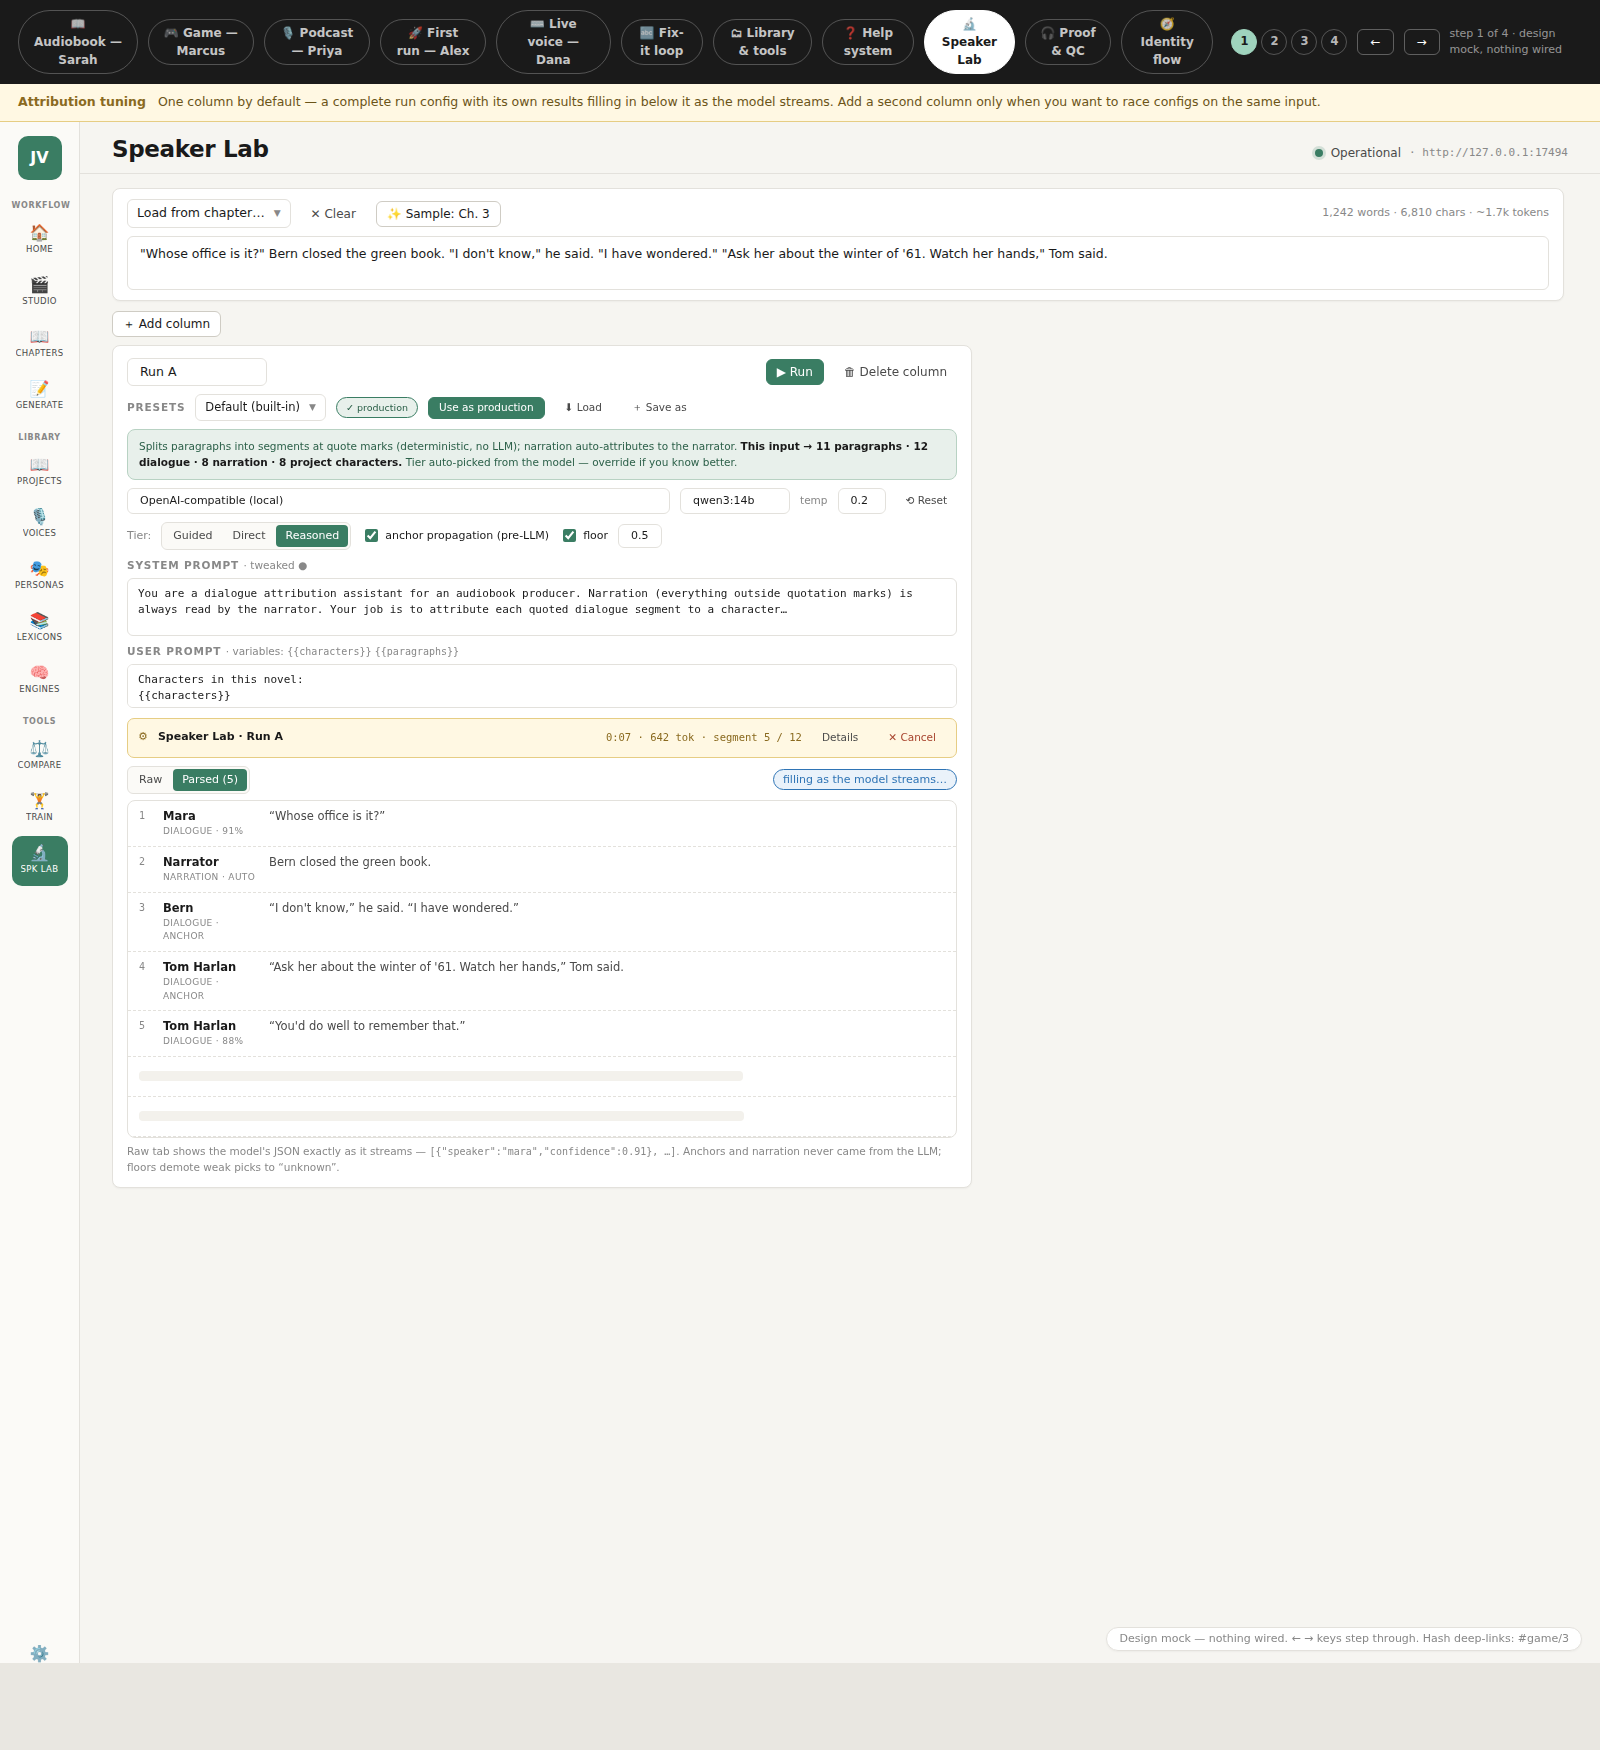
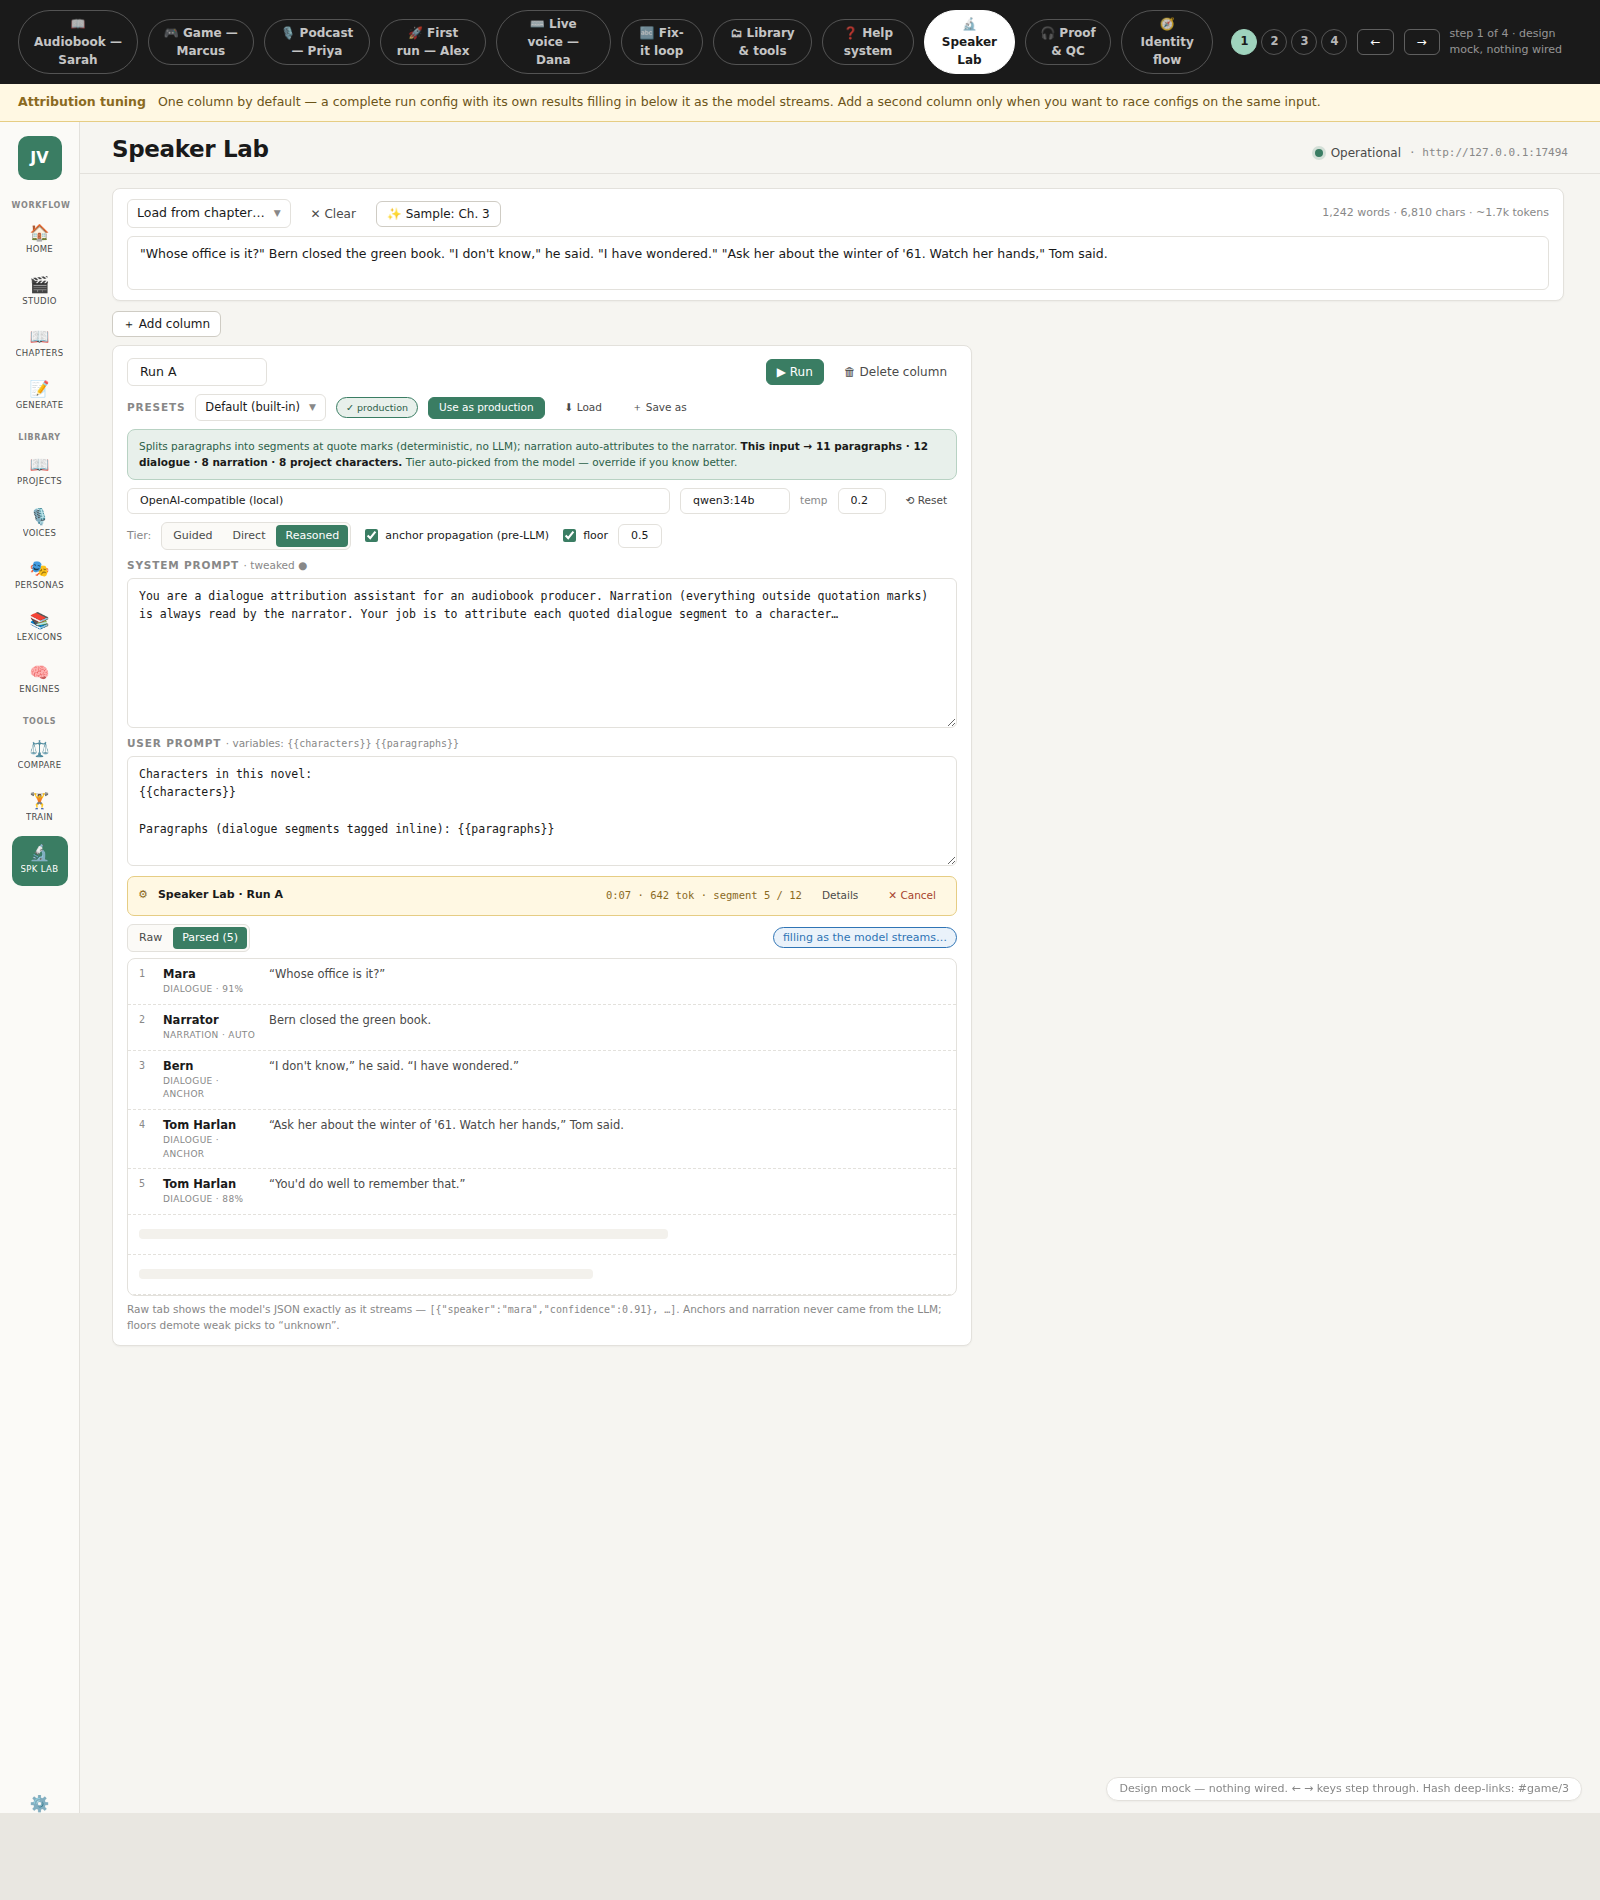
fix(design): Speaker Lab — taller prompt textareas (150px/110px, vertical resize, larger line-height)
https://claude.ai/code/session_01RnHLzYNeJn2GgAMKW1BPmR

diff --git a/preview/journeys-preview.html b/preview/journeys-preview.html
@@ -1306,9 +1306,9 @@ const stepsSplab = [
           <label style="font-size:11px;display:inline-flex;gap:4px;align-items:center"><input type="checkbox" checked style="accent-color:var(--accent)"/>anchor propagation (pre-LLM)</label>
           <label style="font-size:11px;display:inline-flex;gap:4px;align-items:center"><input type="checkbox" checked style="accent-color:var(--accent)"/>floor</label><input class="input" style="height:24px;font-size:11px;max-width:44px" value="0.5"/></div>
         <div class="eyebrow" style="margin-bottom:4px">System prompt <span style="font-weight:400;text-transform:none;letter-spacing:0">· tweaked ●</span></div>
-        <textarea class="input" style="height:58px;padding:7px 10px;resize:none;font-size:11px;font-family:var(--font-mono);margin-bottom:8px">You are a dialogue attribution assistant for an audiobook producer. Narration (everything outside quotation marks) is always read by the narrator. Your job is to attribute each quoted dialogue segment to a character…</textarea>
+        <textarea class="input" style="height:150px;padding:8px 11px;resize:vertical;font-size:11.5px;line-height:1.6;font-family:var(--font-mono);margin-bottom:8px">You are a dialogue attribution assistant for an audiobook producer. Narration (everything outside quotation marks) is always read by the narrator. Your job is to attribute each quoted dialogue segment to a character…</textarea>
         <div class="eyebrow" style="margin-bottom:4px">User prompt <span style="font-weight:400;text-transform:none;letter-spacing:0">· variables: <span class="mono" style="font-size:10px">{{characters}}</span> <span class="mono" style="font-size:10px">{{paragraphs}}</span></span></div>
-        <textarea class="input" style="height:44px;padding:7px 10px;resize:none;font-size:11px;font-family:var(--font-mono);margin-bottom:10px">Characters in this novel:
+        <textarea class="input" style="height:110px;padding:8px 11px;resize:vertical;font-size:11.5px;line-height:1.6;font-family:var(--font-mono);margin-bottom:10px">Characters in this novel:
 {{characters}}
 
 Paragraphs (dialogue segments tagged inline): {{paragraphs}}</textarea>
